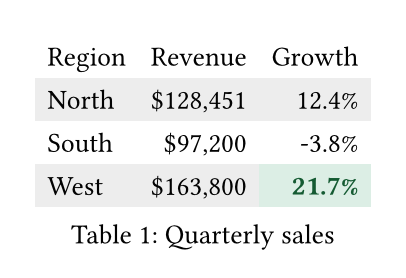
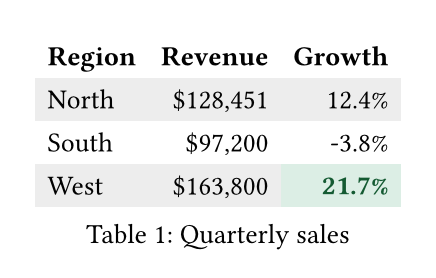
docs: highlight maximum growth dynamically in readme

diff --git a/README.md b/README.md
@@ -33,7 +33,11 @@ table = (
     .fmt(j="Revenue", fn=currency("USD", digits=0))
     .fmt(j="Growth", fn=percent(digits=1))
     .theme_striped()
-    .style(i=2, j="Growth", bold=True, background="#dceee5", color="#145a32")
+    .style(i="header", bold=True)
+    .style(
+        where=pl.col("Growth") == pl.col("Growth").max(),
+        bold=True, background="#dceee5", color="#145a32",
+    )
 )
 
 table.save("sales.typ")
